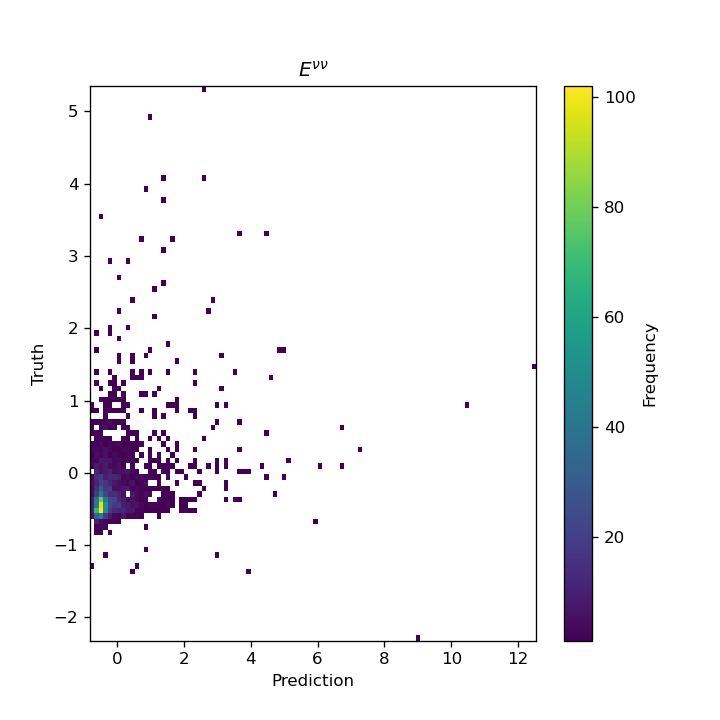
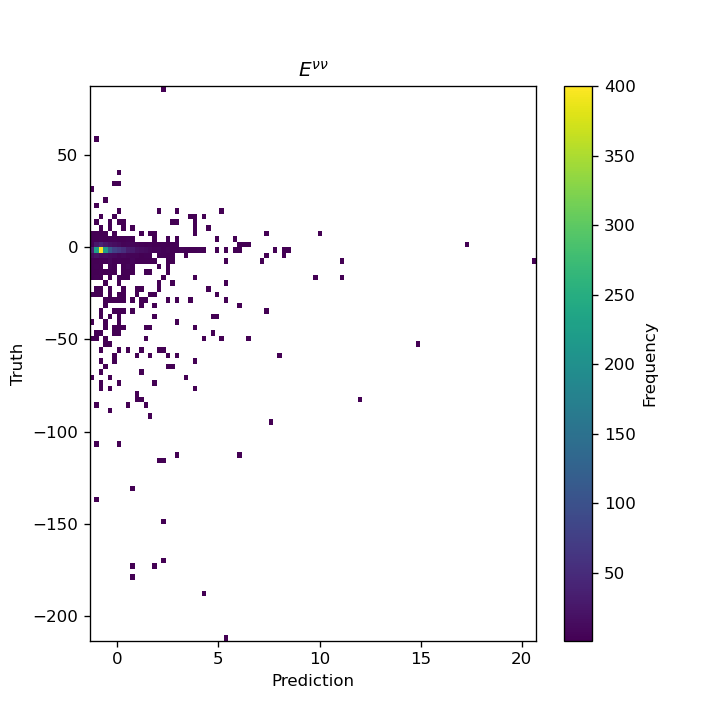
Change traning parameters.

diff --git a/INN_DinuLep-MET.py b/INN_DinuLep-MET.py
@@ -38,22 +38,26 @@ processor.load_files(path)
     Xi,
 ) = processor.files
 
-lep_kin = processor.process_lep(LepP, LepM)
-# print("lep_kin shape:", lep_kin.shape)
-# print(lep_kin.head(5), end="\n")
-
 # observed (Y)
+# lep
+lep_kin = processor.process_lep(LepP, LepM)
+# MET
 MET_kin = processor.process_MET(MET).iloc[:, 1:3]
+
+# y -> observed params
 MET_kin = pd.concat([MET_kin, lep_kin], axis=1)
 print("MET_kin shape:", MET_kin.shape)
 print(MET_kin.head(3))
 
 # interest (X)
-dinu_kin = processor.process_dinu(NuP, NuM)
-# print("dinu_kin shape:", dinu_kin.shape)
-# print(dinu_kin.head(5), end="\n")
+# nu (sperated)
+nu_p = processor.process_nu(NuP)
+nu_m = processor.process_nu(NuM)
+# CGLMP.
+Bij = processor.process_CGLMP(CGLMP)
 
-dinu_kin = pd.concat([dinu_kin, lep_kin], axis=1)
+# x -> interested unknowns
+dinu_kin = pd.concat([nu_p, nu_m, Bij], axis=1)
 print("dinu_kin shape:", dinu_kin.shape)
 print(dinu_kin.head(3))
 print()
@@ -87,10 +91,12 @@ from sklearn.preprocessing import StandardScaler
 SCALAR_int = StandardScaler()
 norm_var = SCALAR_int.fit_transform(dinu_kin)
 dinu_kin = norm_var
+print(f"mean: {dinu_kin.mean()}; std: {dinu_kin.std()}")
 
 SCALAR_MET = StandardScaler()
 norm_var = SCALAR_MET.fit_transform(MET_kin)
 MET_kin = norm_var
+print(f"mean: {MET_kin.mean()}; std: {MET_kin.std()}")
 
 del norm_var
 
@@ -127,8 +133,8 @@ x_dim = train_x.shape[1]
 y_dim = train_y.shape[1]
 
 # * hyperparameter
-# z_dim = x_dim - y_dim
-z_dim = 8
+z_dim = x_dim - y_dim + 1  # we only take intrinsic dimension into account
+# z_dim = 8
 
 tot_dim = y_dim + z_dim
 pad_dim = tot_dim - x_dim
@@ -138,6 +144,7 @@ pad_dim = tot_dim - x_dim
 X = train_x.reshape((-1, x_dim))
 # print("pad_dim", pad_dim)
 pad_x = np.zeros((X.shape[0], pad_dim))
+print("pad_x", pad_x.shape)
 # print("pad_x", pad_x.shape)
 x = np.concatenate([X, pad_x], axis=-1).astype("float32")
 print("x", x.shape)
@@ -156,13 +163,13 @@ n_sample = X.shape[0]
 n_data = n_sample * train_y.shape[1]
 
 # * hyperparameter
-n_couple_layer = 3
+n_couple_layer = 5
 n_hid_layer = 3
 n_hid_dim = 32
 
 # * hyperparameter
-n_batch = 256
-n_epoch = 64
+n_batch = 128
+n_epoch = 32
 n_display = n_batch
 
 # Make dataset generator
@@ -270,7 +277,7 @@ class Trainer(tfk.Model):
 trainer = Trainer(
     model, x_dim, y_dim, z_dim, tot_dim, n_couple_layer, n_hid_layer, n_hid_dim
 )
-trainer.compile(optimizer=tf.keras.optimizers.Adam(learning_rate=1e-3))
+trainer.compile(optimizer=tf.keras.optimizers.Adam(learning_rate=1e-4))
 
 # %% [markdown]
 # Training
@@ -307,12 +314,18 @@ plt.close()
 z = np.random.multivariate_normal([1.0] * z_dim, np.eye(z_dim), test_y.shape[0])
 y = np.concatenate([z, test_y], axis=-1).astype("float32")
 x_pred = model.inverse(y).numpy()
-pz_pred = x_pred[:, 3]
-pt_pred = np.sqrt(np.square(x_pred[:, 1]) + np.square(x_pred[:, 2]))
-E_pred = x_pred[:, 0]
-pz_truth = test_x[:, 3]
-pt_truth = np.sqrt(np.square(test_x[:, 1]) + np.square(test_x[:, 2]))
-E_truth = test_x[:, 0]
+
+pz_pred = x_pred[:, 3] + x_pred[:, 7]
+pt_pred = np.sqrt(
+    np.square(x_pred[:, 1] + x_pred[:, 5]) + np.square(x_pred[:, 2] + x_pred[:, 6])
+)
+E_pred = x_pred[:, 0] + x_pred[:, 4]
+
+pz_truth = test_x[:, 3] + test_x[:, 7]
+pt_truth = np.sqrt(
+    np.square(test_x[:, 1] + test_x[:, 5]) + np.square(test_x[:, 2] + test_x[:, 6])
+)
+E_truth = test_x[:, 0] + test_x[:, 4]
 
 
 # %%

diff --git a/get_data.py b/get_data.py
@@ -84,6 +84,22 @@ class DataProcessor:
         nu_kin.drop(self.RMV_EVT, inplace=True)
         return nu_kin
 
+    def process_nu(self, Nu):
+        # Kinemetic info of neutirnos.
+        nu_kin = (
+            pd.DataFrame(
+                {
+                    "nu_E": Nu["E"],
+                    "nu_px": Nu["px"],
+                    "nu_py": Nu["py"],
+                    "nu_pz": Nu["pz"],
+                }
+            )
+            / self.GEV
+        )
+        nu_kin.drop(self.RMV_EVT, inplace=True)
+        return nu_kin
+
     def process_CGLMP(self, CGLMP):
         CGLMP = pd.DataFrame(
             {
